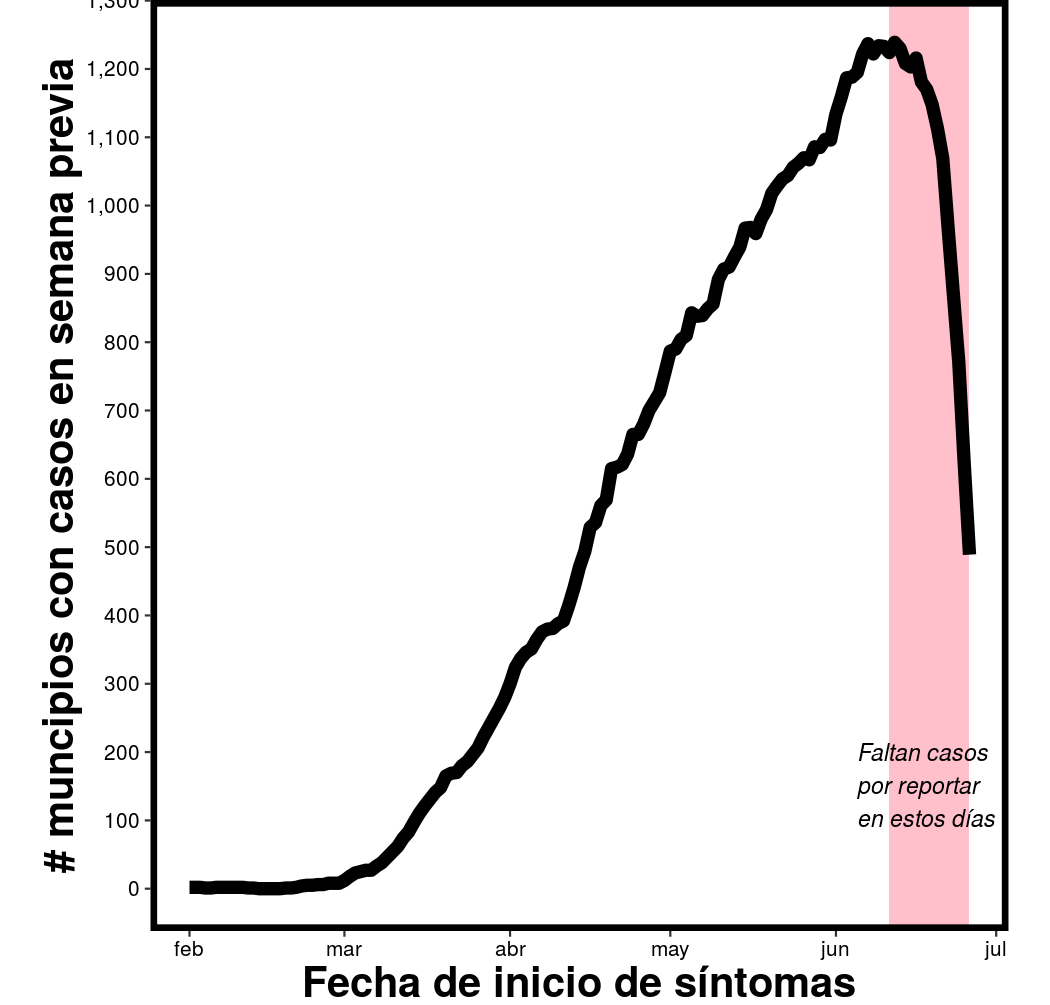
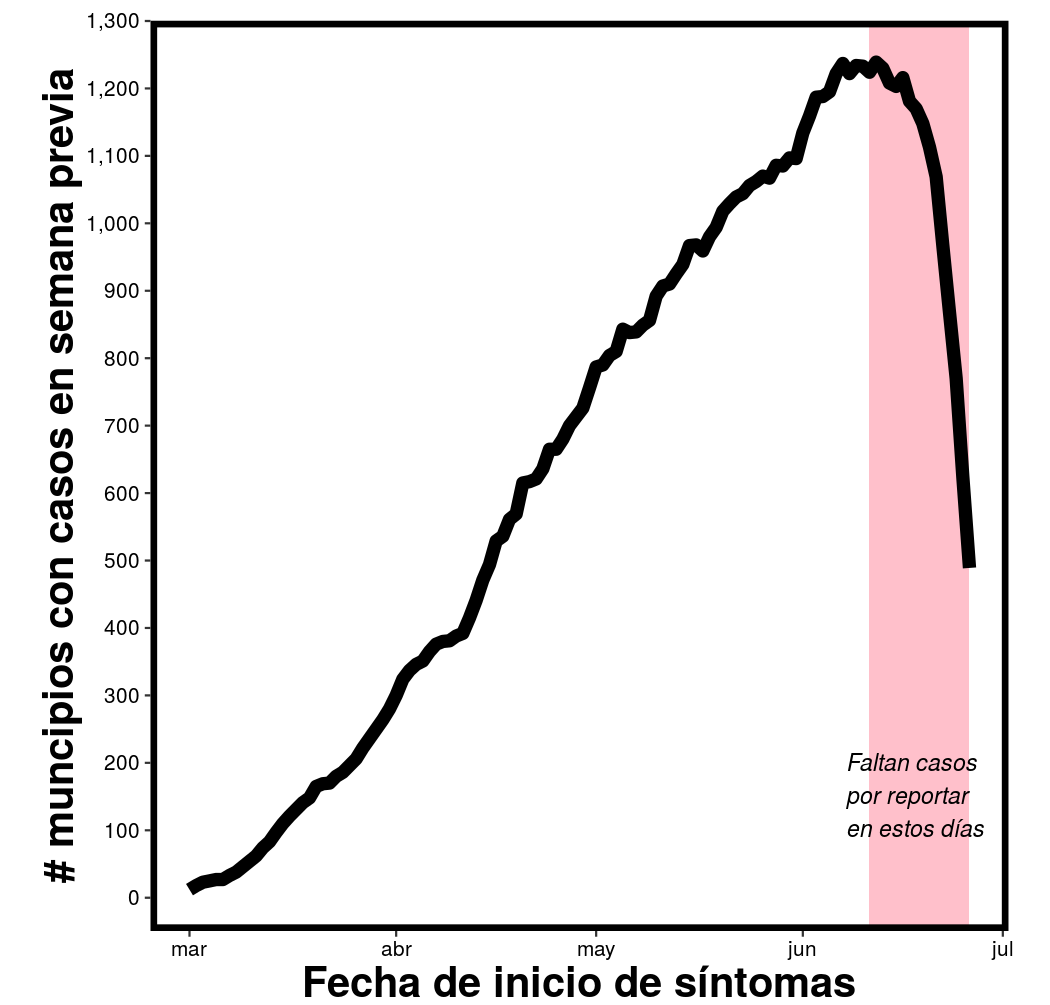
Actualiación 2020-06-26 cambios menores

diff --git a/etiquetas/casos/index.html b/etiquetas/casos/index.html
@@ -575,10 +575,10 @@
             />
           </div>
           <div class="col-12 col-md-6 my-auto my-auto">
-            <h3>¿La epidemia crece en el Valle de México?</h3>
+            <h3>La epidemia se estabiliza en el Valle de México</h3>
             <p class="lead">
-              <p>La zona metropolitana del Valle de México ha sido por mucho la región más afectada del país, acumulando cerca de la mitad de los casos confirmados. Esta gráfica muestra como el número de de acuerdo a la fecha en que mostraron síntomas. Debido a que los casos nuevos se detectan con un <a href="../../clinicos#tiempo_deteccion">retraso típico de 11 días</a>, sólo podemos estar razonablemente seguros del número de casos hace unas dos semanas</p>
-<p>Se empieza a ver un aparente descenso en el número de casos nuevos entre el 10 y el 15 de mayo, sin embargo, esto ha pasado en <a href="../../municipios#top_zm_casos">otras ciudades</a> donde los casos han vuelto a aumentar. Esto significa que no podemos estar seguros hasta no ver unas dos semanas de descenso sostenido en el número de casos nuevos.</p>
+              <p>La zona metropolitana del Valle de México ha sido por mucho la región más afectada del país, acumulando alrededor de un tercio de los casos confirmados. Esta gráfica muestra el número de de acuerdo a la fecha en que mostraron síntomas. Debido a que los casos nuevos se detectan con un <a href="../../clinicos#tiempo_deteccion">retraso típico de 11 días</a>, sólo podemos estar razonablemente seguros del número de casos hace unas dos semanas</p>
+<p>El número de casos nuevos comenzó a estabilizarse alrededor del 15 de mayo, pero todavía no vemos un descenso sostenido en el número de casos nuevos por día. El que la epidemia se estabilice no quiere decir que disminuya el riesgo, sino que deja de aumentar. Además, hemos visto que en <a href="../../municipios#top_zm_casos">otras ciudades</a> los casos se han estabilizado o descendido para luego volver a aumentar.</p>
 <p>Otras <a href="../../municipios#top_zm_casos">zonas</a> <a href="../../municipios#top_zm_casos2">metropolitanas</a> <a href="../../municipios#top_zm_casos3">también</a> han sido afectadas</p>
             </p>
               

diff --git a/etiquetas/municipios/index.html b/etiquetas/municipios/index.html
@@ -356,10 +356,10 @@
             />
           </div>
           <div class="col-12 col-md-6 my-auto my-auto">
-            <h3>¿La epidemia crece en el Valle de México?</h3>
+            <h3>La epidemia se estabiliza en el Valle de México</h3>
             <p class="lead">
-              <p>La zona metropolitana del Valle de México ha sido por mucho la región más afectada del país, acumulando cerca de la mitad de los casos confirmados. Esta gráfica muestra como el número de de acuerdo a la fecha en que mostraron síntomas. Debido a que los casos nuevos se detectan con un <a href="../../clinicos#tiempo_deteccion">retraso típico de 11 días</a>, sólo podemos estar razonablemente seguros del número de casos hace unas dos semanas</p>
-<p>Se empieza a ver un aparente descenso en el número de casos nuevos entre el 10 y el 15 de mayo, sin embargo, esto ha pasado en <a href="../../municipios#top_zm_casos">otras ciudades</a> donde los casos han vuelto a aumentar. Esto significa que no podemos estar seguros hasta no ver unas dos semanas de descenso sostenido en el número de casos nuevos.</p>
+              <p>La zona metropolitana del Valle de México ha sido por mucho la región más afectada del país, acumulando alrededor de un tercio de los casos confirmados. Esta gráfica muestra el número de de acuerdo a la fecha en que mostraron síntomas. Debido a que los casos nuevos se detectan con un <a href="../../clinicos#tiempo_deteccion">retraso típico de 11 días</a>, sólo podemos estar razonablemente seguros del número de casos hace unas dos semanas</p>
+<p>El número de casos nuevos comenzó a estabilizarse alrededor del 15 de mayo, pero todavía no vemos un descenso sostenido en el número de casos nuevos por día. El que la epidemia se estabilice no quiere decir que disminuya el riesgo, sino que deja de aumentar. Además, hemos visto que en <a href="../../municipios#top_zm_casos">otras ciudades</a> los casos se han estabilizado o descendido para luego volver a aumentar.</p>
 <p>Otras <a href="../../municipios#top_zm_casos">zonas</a> <a href="../../municipios#top_zm_casos2">metropolitanas</a> <a href="../../municipios#top_zm_casos3">también</a> han sido afectadas</p>
             </p>
               

diff --git a/etiquetas/serie_tiempo/index.html b/etiquetas/serie_tiempo/index.html
@@ -430,10 +430,10 @@
             />
           </div>
           <div class="col-12 col-md-6 my-auto my-auto">
-            <h3>¿La epidemia crece en el Valle de México?</h3>
+            <h3>La epidemia se estabiliza en el Valle de México</h3>
             <p class="lead">
-              <p>La zona metropolitana del Valle de México ha sido por mucho la región más afectada del país, acumulando cerca de la mitad de los casos confirmados. Esta gráfica muestra como el número de de acuerdo a la fecha en que mostraron síntomas. Debido a que los casos nuevos se detectan con un <a href="../../clinicos#tiempo_deteccion">retraso típico de 11 días</a>, sólo podemos estar razonablemente seguros del número de casos hace unas dos semanas</p>
-<p>Se empieza a ver un aparente descenso en el número de casos nuevos entre el 10 y el 15 de mayo, sin embargo, esto ha pasado en <a href="../../municipios#top_zm_casos">otras ciudades</a> donde los casos han vuelto a aumentar. Esto significa que no podemos estar seguros hasta no ver unas dos semanas de descenso sostenido en el número de casos nuevos.</p>
+              <p>La zona metropolitana del Valle de México ha sido por mucho la región más afectada del país, acumulando alrededor de un tercio de los casos confirmados. Esta gráfica muestra el número de de acuerdo a la fecha en que mostraron síntomas. Debido a que los casos nuevos se detectan con un <a href="../../clinicos#tiempo_deteccion">retraso típico de 11 días</a>, sólo podemos estar razonablemente seguros del número de casos hace unas dos semanas</p>
+<p>El número de casos nuevos comenzó a estabilizarse alrededor del 15 de mayo, pero todavía no vemos un descenso sostenido en el número de casos nuevos por día. El que la epidemia se estabilice no quiere decir que disminuya el riesgo, sino que deja de aumentar. Además, hemos visto que en <a href="../../municipios#top_zm_casos">otras ciudades</a> los casos se han estabilizado o descendido para luego volver a aumentar.</p>
 <p>Otras <a href="../../municipios#top_zm_casos">zonas</a> <a href="../../municipios#top_zm_casos2">metropolitanas</a> <a href="../../municipios#top_zm_casos3">también</a> han sido afectadas</p>
             </p>
               

diff --git a/etiquetas/zona_metropolitana/index.html b/etiquetas/zona_metropolitana/index.html
@@ -332,10 +332,10 @@
             />
           </div>
           <div class="col-12 col-md-6 my-auto my-auto">
-            <h3>¿La epidemia crece en el Valle de México?</h3>
+            <h3>La epidemia se estabiliza en el Valle de México</h3>
             <p class="lead">
-              <p>La zona metropolitana del Valle de México ha sido por mucho la región más afectada del país, acumulando cerca de la mitad de los casos confirmados. Esta gráfica muestra como el número de de acuerdo a la fecha en que mostraron síntomas. Debido a que los casos nuevos se detectan con un <a href="../../clinicos#tiempo_deteccion">retraso típico de 11 días</a>, sólo podemos estar razonablemente seguros del número de casos hace unas dos semanas</p>
-<p>Se empieza a ver un aparente descenso en el número de casos nuevos entre el 10 y el 15 de mayo, sin embargo, esto ha pasado en <a href="../../municipios#top_zm_casos">otras ciudades</a> donde los casos han vuelto a aumentar. Esto significa que no podemos estar seguros hasta no ver unas dos semanas de descenso sostenido en el número de casos nuevos.</p>
+              <p>La zona metropolitana del Valle de México ha sido por mucho la región más afectada del país, acumulando alrededor de un tercio de los casos confirmados. Esta gráfica muestra el número de de acuerdo a la fecha en que mostraron síntomas. Debido a que los casos nuevos se detectan con un <a href="../../clinicos#tiempo_deteccion">retraso típico de 11 días</a>, sólo podemos estar razonablemente seguros del número de casos hace unas dos semanas</p>
+<p>El número de casos nuevos comenzó a estabilizarse alrededor del 15 de mayo, pero todavía no vemos un descenso sostenido en el número de casos nuevos por día. El que la epidemia se estabilice no quiere decir que disminuya el riesgo, sino que deja de aumentar. Además, hemos visto que en <a href="../../municipios#top_zm_casos">otras ciudades</a> los casos se han estabilizado o descendido para luego volver a aumentar.</p>
 <p>Otras <a href="../../municipios#top_zm_casos">zonas</a> <a href="../../municipios#top_zm_casos2">metropolitanas</a> <a href="../../municipios#top_zm_casos3">también</a> han sido afectadas</p>
             </p>
               

diff --git a/secciones/casos/index.html b/secciones/casos/index.html
@@ -480,10 +480,10 @@
             />
           </div>
           <div class="col-12 col-md-6 my-auto my-auto">
-            <h3>¿La epidemia crece en el Valle de México?</h3>
+            <h3>La epidemia se estabiliza en el Valle de México</h3>
             <p class="lead">
-              <p>La zona metropolitana del Valle de México ha sido por mucho la región más afectada del país, acumulando cerca de la mitad de los casos confirmados. Esta gráfica muestra como el número de de acuerdo a la fecha en que mostraron síntomas. Debido a que los casos nuevos se detectan con un <a href="../../clinicos#tiempo_deteccion">retraso típico de 11 días</a>, sólo podemos estar razonablemente seguros del número de casos hace unas dos semanas</p>
-<p>Se empieza a ver un aparente descenso en el número de casos nuevos entre el 10 y el 15 de mayo, sin embargo, esto ha pasado en <a href="../../municipios#top_zm_casos">otras ciudades</a> donde los casos han vuelto a aumentar. Esto significa que no podemos estar seguros hasta no ver unas dos semanas de descenso sostenido en el número de casos nuevos.</p>
+              <p>La zona metropolitana del Valle de México ha sido por mucho la región más afectada del país, acumulando alrededor de un tercio de los casos confirmados. Esta gráfica muestra el número de de acuerdo a la fecha en que mostraron síntomas. Debido a que los casos nuevos se detectan con un <a href="../../clinicos#tiempo_deteccion">retraso típico de 11 días</a>, sólo podemos estar razonablemente seguros del número de casos hace unas dos semanas</p>
+<p>El número de casos nuevos comenzó a estabilizarse alrededor del 15 de mayo, pero todavía no vemos un descenso sostenido en el número de casos nuevos por día. El que la epidemia se estabilice no quiere decir que disminuya el riesgo, sino que deja de aumentar. Además, hemos visto que en <a href="../../municipios#top_zm_casos">otras ciudades</a> los casos se han estabilizado o descendido para luego volver a aumentar.</p>
 <p>Otras <a href="../../municipios#top_zm_casos">zonas</a> <a href="../../municipios#top_zm_casos2">metropolitanas</a> <a href="../../municipios#top_zm_casos3">también</a> han sido afectadas</p>
             </p>
               

diff --git a/secciones/municipios/index.html b/secciones/municipios/index.html
@@ -332,10 +332,10 @@
             />
           </div>
           <div class="col-12 col-md-6 my-auto my-auto">
-            <h3>¿La epidemia crece en el Valle de México?</h3>
+            <h3>La epidemia se estabiliza en el Valle de México</h3>
             <p class="lead">
-              <p>La zona metropolitana del Valle de México ha sido por mucho la región más afectada del país, acumulando cerca de la mitad de los casos confirmados. Esta gráfica muestra como el número de de acuerdo a la fecha en que mostraron síntomas. Debido a que los casos nuevos se detectan con un <a href="../../clinicos#tiempo_deteccion">retraso típico de 11 días</a>, sólo podemos estar razonablemente seguros del número de casos hace unas dos semanas</p>
-<p>Se empieza a ver un aparente descenso en el número de casos nuevos entre el 10 y el 15 de mayo, sin embargo, esto ha pasado en <a href="../../municipios#top_zm_casos">otras ciudades</a> donde los casos han vuelto a aumentar. Esto significa que no podemos estar seguros hasta no ver unas dos semanas de descenso sostenido en el número de casos nuevos.</p>
+              <p>La zona metropolitana del Valle de México ha sido por mucho la región más afectada del país, acumulando alrededor de un tercio de los casos confirmados. Esta gráfica muestra el número de de acuerdo a la fecha en que mostraron síntomas. Debido a que los casos nuevos se detectan con un <a href="../../clinicos#tiempo_deteccion">retraso típico de 11 días</a>, sólo podemos estar razonablemente seguros del número de casos hace unas dos semanas</p>
+<p>El número de casos nuevos comenzó a estabilizarse alrededor del 15 de mayo, pero todavía no vemos un descenso sostenido en el número de casos nuevos por día. El que la epidemia se estabilice no quiere decir que disminuya el riesgo, sino que deja de aumentar. Además, hemos visto que en <a href="../../municipios#top_zm_casos">otras ciudades</a> los casos se han estabilizado o descendido para luego volver a aumentar.</p>
 <p>Otras <a href="../../municipios#top_zm_casos">zonas</a> <a href="../../municipios#top_zm_casos2">metropolitanas</a> <a href="../../municipios#top_zm_casos3">también</a> han sido afectadas</p>
             </p>
               

diff --git a/municipios/vm_casos/index.html b/municipios/vm_casos/index.html
@@ -325,10 +325,10 @@
           />
         </div>
         <div class="col-12 col-md-6 my-auto my-auto">
-          <h2>¿La epidemia crece en el Valle de México?</h2>
+          <h2>La epidemia se estabiliza en el Valle de México</h2>
           <p class="lead">
-            <p>La zona metropolitana del Valle de México ha sido por mucho la región más afectada del país, acumulando cerca de la mitad de los casos confirmados. Esta gráfica muestra como el número de de acuerdo a la fecha en que mostraron síntomas. Debido a que los casos nuevos se detectan con un <a href="../../clinicos#tiempo_deteccion">retraso típico de 11 días</a>, sólo podemos estar razonablemente seguros del número de casos hace unas dos semanas</p>
-<p>Se empieza a ver un aparente descenso en el número de casos nuevos entre el 10 y el 15 de mayo, sin embargo, esto ha pasado en <a href="../../municipios#top_zm_casos">otras ciudades</a> donde los casos han vuelto a aumentar. Esto significa que no podemos estar seguros hasta no ver unas dos semanas de descenso sostenido en el número de casos nuevos.</p>
+            <p>La zona metropolitana del Valle de México ha sido por mucho la región más afectada del país, acumulando alrededor de un tercio de los casos confirmados. Esta gráfica muestra el número de de acuerdo a la fecha en que mostraron síntomas. Debido a que los casos nuevos se detectan con un <a href="../../clinicos#tiempo_deteccion">retraso típico de 11 días</a>, sólo podemos estar razonablemente seguros del número de casos hace unas dos semanas</p>
+<p>El número de casos nuevos comenzó a estabilizarse alrededor del 15 de mayo, pero todavía no vemos un descenso sostenido en el número de casos nuevos por día. El que la epidemia se estabilice no quiere decir que disminuya el riesgo, sino que deja de aumentar. Además, hemos visto que en <a href="../../municipios#top_zm_casos">otras ciudades</a> los casos se han estabilizado o descendido para luego volver a aumentar.</p>
 <p>Otras <a href="../../municipios#top_zm_casos">zonas</a> <a href="../../municipios#top_zm_casos2">metropolitanas</a> <a href="../../municipios#top_zm_casos3">también</a> han sido afectadas</p>
           </p>
             

diff --git a/municipios/index.html b/municipios/index.html
@@ -332,10 +332,10 @@
             />
           </div>
           <div class="col-12 col-md-6 my-auto my-auto">
-            <h3>¿La epidemia crece en el Valle de México?</h3>
+            <h3>La epidemia se estabiliza en el Valle de México</h3>
             <p class="lead">
-              <p>La zona metropolitana del Valle de México ha sido por mucho la región más afectada del país, acumulando cerca de la mitad de los casos confirmados. Esta gráfica muestra como el número de de acuerdo a la fecha en que mostraron síntomas. Debido a que los casos nuevos se detectan con un <a href="../clinicos#tiempo_deteccion">retraso típico de 11 días</a>, sólo podemos estar razonablemente seguros del número de casos hace unas dos semanas</p>
-<p>Se empieza a ver un aparente descenso en el número de casos nuevos entre el 10 y el 15 de mayo, sin embargo, esto ha pasado en <a href="../municipios#top_zm_casos">otras ciudades</a> donde los casos han vuelto a aumentar. Esto significa que no podemos estar seguros hasta no ver unas dos semanas de descenso sostenido en el número de casos nuevos.</p>
+              <p>La zona metropolitana del Valle de México ha sido por mucho la región más afectada del país, acumulando alrededor de un tercio de los casos confirmados. Esta gráfica muestra el número de de acuerdo a la fecha en que mostraron síntomas. Debido a que los casos nuevos se detectan con un <a href="../clinicos#tiempo_deteccion">retraso típico de 11 días</a>, sólo podemos estar razonablemente seguros del número de casos hace unas dos semanas</p>
+<p>El número de casos nuevos comenzó a estabilizarse alrededor del 15 de mayo, pero todavía no vemos un descenso sostenido en el número de casos nuevos por día. El que la epidemia se estabilice no quiere decir que disminuya el riesgo, sino que deja de aumentar. Además, hemos visto que en <a href="../municipios#top_zm_casos">otras ciudades</a> los casos se han estabilizado o descendido para luego volver a aumentar.</p>
 <p>Otras <a href="../municipios#top_zm_casos">zonas</a> <a href="../municipios#top_zm_casos2">metropolitanas</a> <a href="../municipios#top_zm_casos3">también</a> han sido afectadas</p>
             </p>
               

diff --git a/index.html b/index.html
@@ -464,10 +464,10 @@
             />
           </div>
           <div class="col-12 col-md-6 my-auto my-auto">
-            <h3>¿La epidemia crece en el Valle de México?</h3>
+            <h3>La epidemia se estabiliza en el Valle de México</h3>
             <p class="lead">
-              <p>La zona metropolitana del Valle de México ha sido por mucho la región más afectada del país, acumulando cerca de la mitad de los casos confirmados. Esta gráfica muestra como el número de de acuerdo a la fecha en que mostraron síntomas. Debido a que los casos nuevos se detectan con un <a href="./clinicos#tiempo_deteccion">retraso típico de 11 días</a>, sólo podemos estar razonablemente seguros del número de casos hace unas dos semanas</p>
-<p>Se empieza a ver un aparente descenso en el número de casos nuevos entre el 10 y el 15 de mayo, sin embargo, esto ha pasado en <a href="./municipios#top_zm_casos">otras ciudades</a> donde los casos han vuelto a aumentar. Esto significa que no podemos estar seguros hasta no ver unas dos semanas de descenso sostenido en el número de casos nuevos.</p>
+              <p>La zona metropolitana del Valle de México ha sido por mucho la región más afectada del país, acumulando alrededor de un tercio de los casos confirmados. Esta gráfica muestra el número de de acuerdo a la fecha en que mostraron síntomas. Debido a que los casos nuevos se detectan con un <a href="./clinicos#tiempo_deteccion">retraso típico de 11 días</a>, sólo podemos estar razonablemente seguros del número de casos hace unas dos semanas</p>
+<p>El número de casos nuevos comenzó a estabilizarse alrededor del 15 de mayo, pero todavía no vemos un descenso sostenido en el número de casos nuevos por día. El que la epidemia se estabilice no quiere decir que disminuya el riesgo, sino que deja de aumentar. Además, hemos visto que en <a href="./municipios#top_zm_casos">otras ciudades</a> los casos se han estabilizado o descendido para luego volver a aumentar.</p>
 <p>Otras <a href="./municipios#top_zm_casos">zonas</a> <a href="./municipios#top_zm_casos2">metropolitanas</a> <a href="./municipios#top_zm_casos3">también</a> han sido afectadas</p>
             </p>
               
